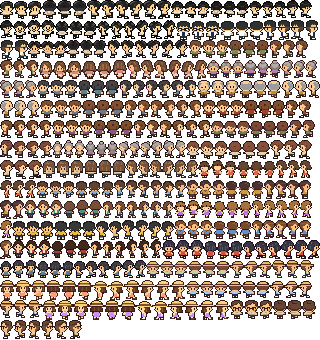
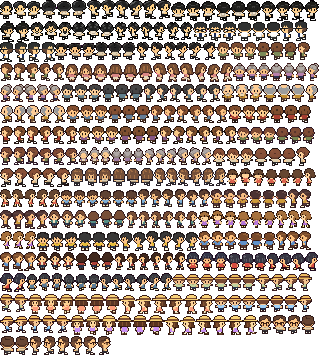
GOLF GUTS の4人を等倍取り込み（格子の位相合わせ＋ブロック中央の最頻色、マゼンタ縁除去）に変更。全員正面向きに
Claude-Session: https://claude.ai/code/session_018VDSYCPciSbMvR8kKaJDnr

diff --git a/js/data.js b/js/data.js
@@ -190,13 +190,13 @@ const DATA = {
         { x: 8, y: 1, kind: 'npc', img: 'v12', sprite: 'npc_nurse', dir: 'down', name: 'うけつけ',
           text: 'GOLF GUTSへ ようこそ。\nきょうは まだ じゅんびちゅうです。' },
         // GOLF GUTS の4人（セリフは仮。配置は内装が決まったら調整）
-        { x: 4, y: 3, kind: 'npc', img: 'hori', sprite: 'npc_man', dir: 'right', name: 'ホリ',
+        { x: 4, y: 3, kind: 'npc', img: 'hori', sprite: 'npc_man', dir: 'down', name: 'ホリ',
           text: 'おれは ホリ。\nスイングは リズムが いのちだ。' },
-        { x: 13, y: 3, kind: 'npc', img: 'kuga', sprite: 'npc_man', dir: 'left', name: 'クガ',
+        { x: 13, y: 3, kind: 'npc', img: 'kuga', sprite: 'npc_man', dir: 'down', name: 'クガ',
           text: 'クガだ。\nまずは グリップから みなおせ。' },
-        { x: 5, y: 7, kind: 'npc', img: 'bunta', sprite: 'npc_man', dir: 'right', name: 'ブンタ',
+        { x: 5, y: 7, kind: 'npc', img: 'bunta', sprite: 'npc_man', dir: 'down', name: 'ブンタ',
           text: 'ブンタっていうんだ。\nここで 毎日 ボールを うってる。' },
-        { x: 12, y: 7, kind: 'npc', img: 'shinji', sprite: 'npc_man', dir: 'left', name: 'シンジ',
+        { x: 12, y: 7, kind: 'npc', img: 'shinji', sprite: 'npc_man', dir: 'down', name: 'シンジ',
           text: 'シンジです。\nパターは きもちで うつもんだよ。' },
       ],
     },

diff --git a/tools/npc-px.py b/tools/npc-px.py
@@ -8,6 +8,7 @@ import numpy as np
 from scipy import ndimage
 exec(open('tools/town-fit.py').read().split("src = Image.open")[0])   # pixelize
 DIRS=['down','up','left','right']; H=18
+EXACT={'hori','kuga','bunta','shinji'}   # 等倍で取り込む（縮小しない）
 sprites={}
 for path in sorted(glob.glob('assets/src/npc/*.png')):
     name=os.path.splitext(os.path.basename(path))[0]
@@ -32,6 +33,36 @@ for path in sorted(glob.glob('assets/src/npc/*.png')):
     byrow={}
     for (y,x,w,h) in cells:
         r=min(range(4),key=lambda i:abs(rows[i]-y)); byrow.setdefault(r,[]).append((x,y,w,h))
+    # 等倍取り込み（EXACT）：元絵の格子の位相を合わせ、各ブロックの中央の色をそのまま1ドットにする（縮小で目や輪郭がぼやけない）
+    if name in EXACT:
+        HH=max(H,nat_h)
+        for r in range(4):
+            for c,(x,y,w,h) in enumerate(sorted(byrow[r])):
+                c0=a[y:y+h,x:x+w]; m0=mag[y:y+h,x:x+w]
+                gx=np.abs(np.diff(c0,axis=1)).sum(axis=2).sum(axis=0); gy=np.abs(np.diff(c0,axis=0)).sum(axis=2).sum(axis=1)
+                ox=max(range(P),key=lambda o: gx[[i for i in range(o,len(gx),P)]].sum())   # 色の変わり目が最も集まる位相＝ブロック境界
+                oy=max(range(P),key=lambda o: gy[[i for i in range(o,len(gy),P)]].sum())
+                x0=(ox+1)%P; y0=(oy+1)%P
+                if x0>P//2: x0-=P
+                if y0>P//2: y0-=P
+                tw=-(-(w-x0)//P); th=-(-(h-y0)//P)
+                px=np.zeros((th,tw,4),dtype=np.uint8)
+                for j in range(th):
+                    for i in range(tw):
+                        cy=y0+j*P+P//2; cx=x0+i*P+P//2
+                        if cy<0 or cx<0 or cy>=h or cx>=w: continue
+                        # ブロック中央 3×3 の中で最も多い色（境界のにじみを避ける）
+                        win=c0[max(0,cy-2):cy+3,max(0,cx-2):cx+3].reshape(-1,3); mw=m0[max(0,cy-2):cy+3,max(0,cx-2):cx+3].reshape(-1)
+                        purple=(win[:,0]>120)&(win[:,2]>120)&(win[:,1]<np.minimum(win[:,0],win[:,2])-50)   # マゼンタの混ざった縁
+                        if (mw|purple).mean()>0.5: continue
+                        win=win[~(mw|purple)]; q=(win//8)*8; vals,cnt=np.unique(q,axis=0,return_counts=True); col=win[(q==vals[cnt.argmax()]).all(axis=1)][0]
+                        px[j,i]=(*col,255)
+                # 透明な行・列を落とす
+                keep_r=np.where(px[:,:,3].any(axis=1))[0]; keep_c=np.where(px[:,:,3].any(axis=0))[0]
+                px=px[keep_r.min():keep_r.max()+1, keep_c.min():keep_c.max()+1]
+                fr=Image.new('RGBA',(px.shape[1],HH),(0,0,0,0)); fr.paste(Image.fromarray(px,'RGBA'),(0,HH-px.shape[0]))
+                sprites[f'{name}_{DIRS[r]}{c}']=fr
+        print(name, 'P=%d nat_h=%d -> exact %dpx'%(P,nat_h,HH)); continue
     for r in range(4):
         for c,(x,y,w,h) in enumerate(sorted(byrow[r])):
             crop=src.crop((x,y,x+w,y+h)).convert('RGBA'); arr=np.asarray(crop).copy(); arr[mag[y:y+h,x:x+w],3]=0
